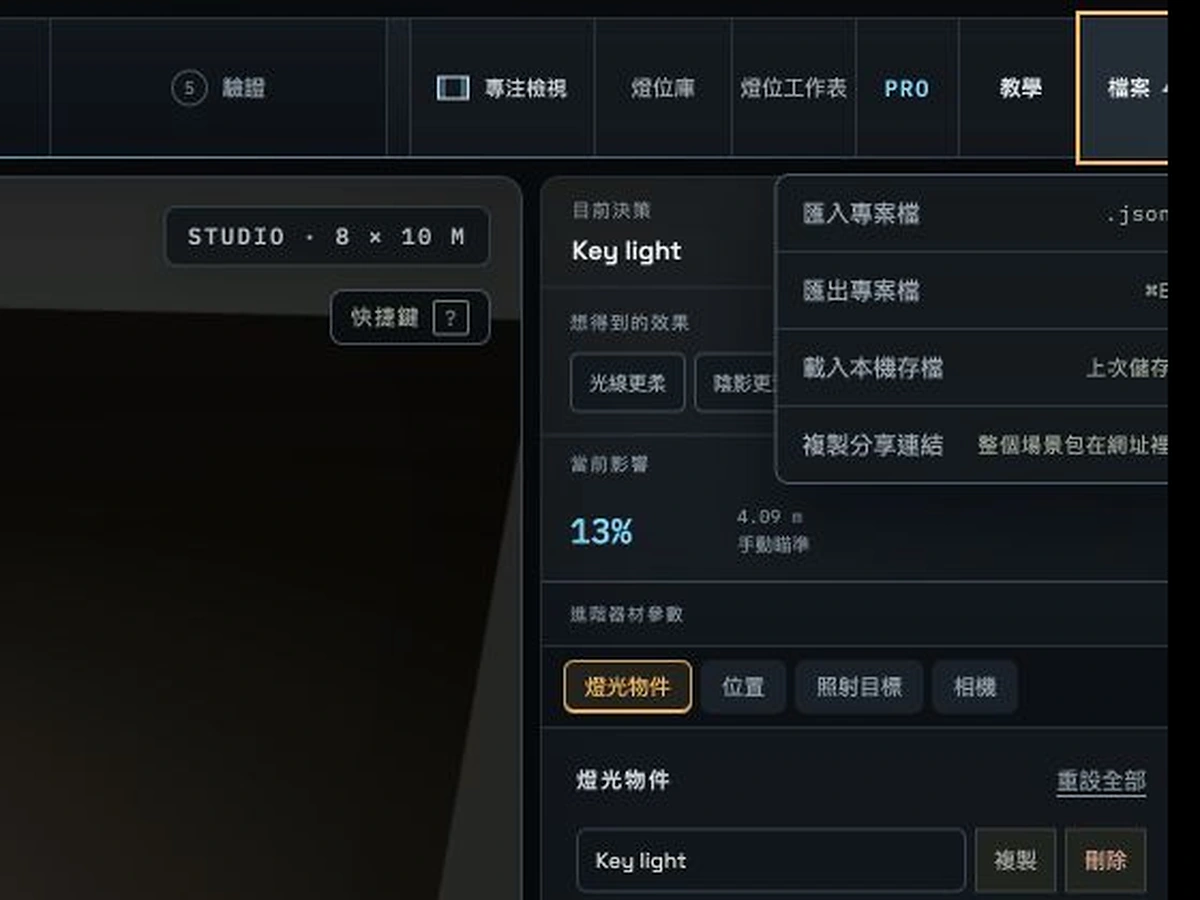
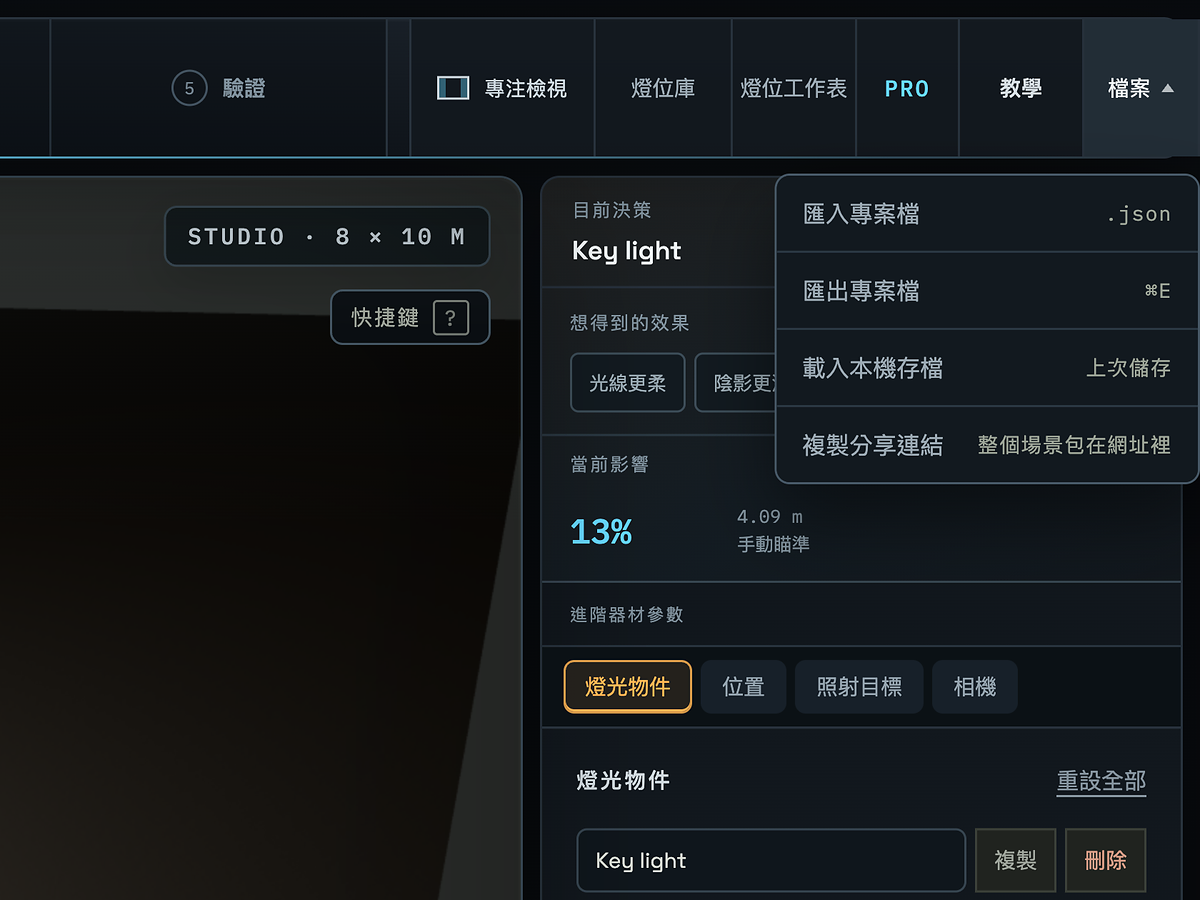
Refresh onboarding with high-resolution studio captures

diff --git a/src/onboarding.css b/src/onboarding.css
@@ -31,6 +31,23 @@
 .onboarding-dots i { width: 5px; height: 5px; border-radius: 999px; background: #40515c; }
 .onboarding-dots i.active { width: 16px; background: var(--signal-cool); }
 
+/* The last tour step targets Save. Keep every top-bar action inside its grid
+   even when OS scaling leaves a few fewer CSS pixels than the nominal width. */
+@media (min-width: 1681px) {
+  header.topbar .project-actions {
+    grid-template-columns:
+      minmax(0, 1.25fr)
+      minmax(0, 1fr)
+      minmax(0, 1.15fr)
+      minmax(0, .78fr)
+      minmax(0, .92fr)
+      minmax(0, .85fr)
+      minmax(0, 1.75fr) !important;
+  }
+  header.topbar .project-actions > *,
+  header.topbar .project-actions .file-menu { min-width: 0; }
+}
+
 @media (max-width: 900px) {
   .onboarding-shade { background: rgba(4, 9, 13, .48); }
   .onboarding-card { max-height: min(520px, calc(100dvh - 24px)); }
